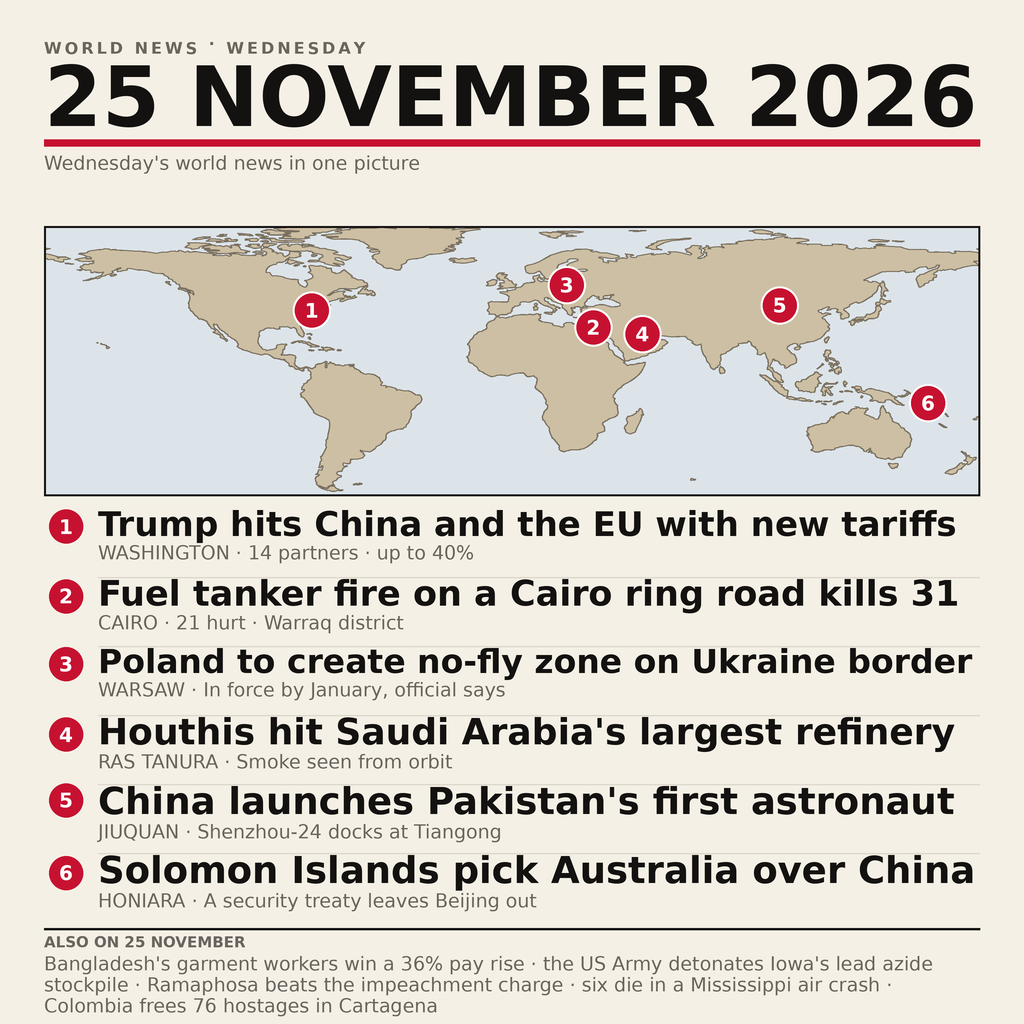
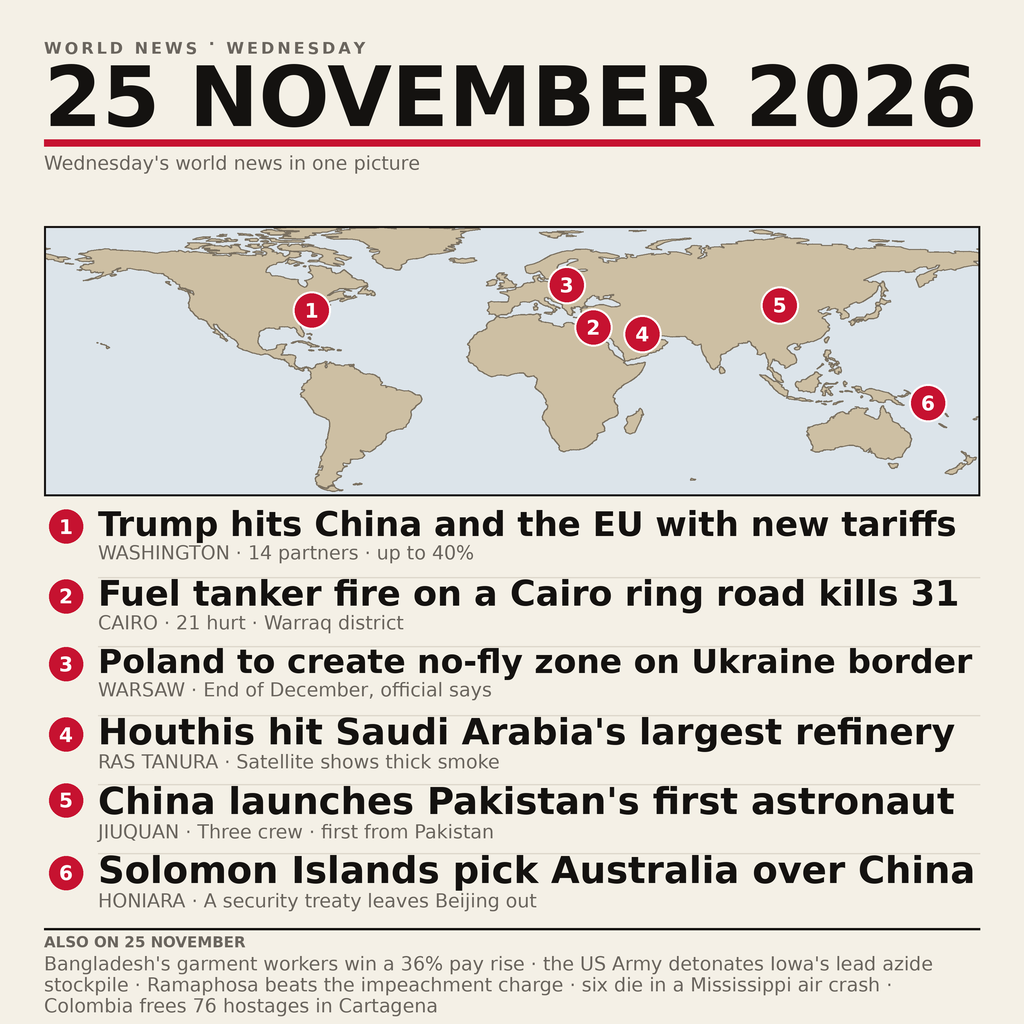
fix: hold every kicker to what its own report says
Re-read all six source articles against the copy:
- #3 kicker said the zone was 'in force by January'; Tomczyk actually said
  'end of December or beginning of January', so the kicker now quotes the
  earliest date he gave rather than asserting a date.
- #4 kicker said 'smoke seen from orbit'; CBC says satellite imagery shows
  thick smoke, so it now says satellite.
- #5 kicker said Shenzhou-24 'docks at Tiangong'; the launch-day report says
  docking is expected in a few hours, so the kicker no longer claims it.
- README gains the Ring Road/Al-Warraq location from the AP and BBC reports.

Changed region(s): [[0.2188, 0.7812, 0.4688, 0.8438], [0.1875, 0.6562, 0.5, 0.6875], [0.25, 0.7188, 0.5, 0.75]]

diff --git a/art/render.py b/art/render.py
@@ -73,11 +73,11 @@ STORIES = [
     ("2", 31.24, 30.04, "Fuel tanker fire on a Cairo ring road kills 31",
      "CAIRO \u00b7 21 hurt \u00b7 Warraq district"),
     ("3", 21.01, 52.23, "Poland to create no-fly zone on Ukraine border",
-     "WARSAW \u00b7 In force by January, official says"),
+     "WARSAW \u00b7 End of December, official says"),
     ("4", 50.16, 26.64, "Houthis hit Saudi Arabia's largest refinery",
-     "RAS TANURA \u00b7 Smoke seen from orbit"),
+     "RAS TANURA \u00b7 Satellite shows thick smoke"),
     ("5", 102.9, 41.5, "China launches Pakistan's first astronaut",
-     "JIUQUAN \u00b7 Shenzhou-24 docks at Tiangong"),
+     "JIUQUAN \u00b7 Three crew \u00b7 first from Pakistan"),
     ("6", 159.97, -9.43, "Solomon Islands pick Australia over China",
      "HONIARA \u00b7 A security treaty leaves Beijing out"),
 ]

diff --git a/README.md b/README.md
@@ -13,10 +13,10 @@ headlines.
 | # | Story | Where |
 |---|---|---|
 | 1 | Trump announces fresh tariffs on 14 partners, China at up to 40% and the EU among them | Washington, USA |
-| 2 | A fuel tanker crashes and burns on a Cairo ring road, killing 31 and injuring 21 | Cairo, Egypt |
-| 3 | Poland says it will create a no-fly zone on its Ukrainian border after Russian airspace violations | Warsaw, Poland |
-| 4 | Houthis claim a strike on Saudi Arabia's Ras Tanura refinery, the kingdom's largest | Ras Tanura, Saudi Arabia |
-| 5 | China launches Shenzhou-24 carrying Pakistan's first astronaut to the Tiangong station | Jiuquan, China |
+| 2 | A fuel tanker crashes and burns on the Ring Road at Al-Warraq, killing 31 and injuring 21 | Cairo, Egypt |
+| 3 | Poland says it will create a no-fly zone on its Ukrainian border after airspace violations, starting at the end of December or in early January | Warsaw, Poland |
+| 4 | Houthis claim a strike on Saudi Arabia's Ras Tanura refinery, the kingdom's largest, with satellite imagery showing thick smoke | Ras Tanura, Saudi Arabia |
+| 5 | China launches Shenzhou-24 carrying Pakistan's first astronaut, with three crew aboard | Jiuquan, China |
 | 6 | Solomon Islands name Australia their primary security partner in a treaty that excludes China | Honiara, Solomon Islands |
 
 Also on the page: Bangladesh's garment workers win a 36% minimum-wage rise after
@@ -45,7 +45,7 @@ side, square, bytes on disk equal to the bytes read), so two runs write
 identical bytes by construction:
 
 ```
-copied .../art/entry.png -> out/entry.png (405809 bytes, 1024x1024, sha256 79f86d7f40be4498)
+copied .../art/entry.png -> out/entry.png (405237 bytes, 1024x1024, sha256 ...)
 ```
 
 ## Re-render it
